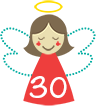
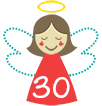
312

diff --git a/main.js b/main.js
@@ -21,7 +21,6 @@ $(function () {
     var $productImg = $borderProductTpl.children('img');
     $body.append($borderProductTpl);
 
-    var randomAnimateClasses = ['zoomIn', 'flipInY', 'rotateIn', 'bounce', 'swing', 'bounceIn', 'wobble', 'tada'];
 
     $body.on('click', function (e) {
         //if(!$(e.target).hasClass('.toy'))
@@ -42,13 +41,12 @@ $(function () {
 
         $borderProductTpl
 		.hide(0, function(){
-			$borderProductTpl.show(600);
+			$borderProductTpl.show();
 		});
 		
-        var animateEffect = randomAnimateClasses[randomIntFromInterval(0, randomAnimateClasses.length-1)];
-        $borderProductTpl.addClass('animated ' + animateEffect);
+        $borderProductTpl.addClass('animated zoomIn');
         $borderProductTpl.one('webkitAnimationEnd mozAnimationEnd MSAnimationEnd oanimationend animationend', function(){
-            $borderProductTpl.removeClass('animated ' + animateEffect);
+            $borderProductTpl.removeClass('animated zoomIn');
 
         });
     });

diff --git a/animate.css b/animate.css
@@ -7,8 +7,8 @@ Copyright (c) 2014 Daniel Eden
 */
 
 .animated {
-  -webkit-animation-duration: 3s;
-          animation-duration: 3s;
+  -webkit-animation-duration: 1s;
+          animation-duration: 1s;
   -webkit-animation-fill-mode: both;
           animation-fill-mode: both;
 }

diff --git a/style.css b/style.css
@@ -430,7 +430,7 @@ body {
 }
 
 .toy30 {
-    width: 96px;
+    width: 102px;
     height: 106px;
     background-image: url("images/toy30.png");
     cursor: pointer;
